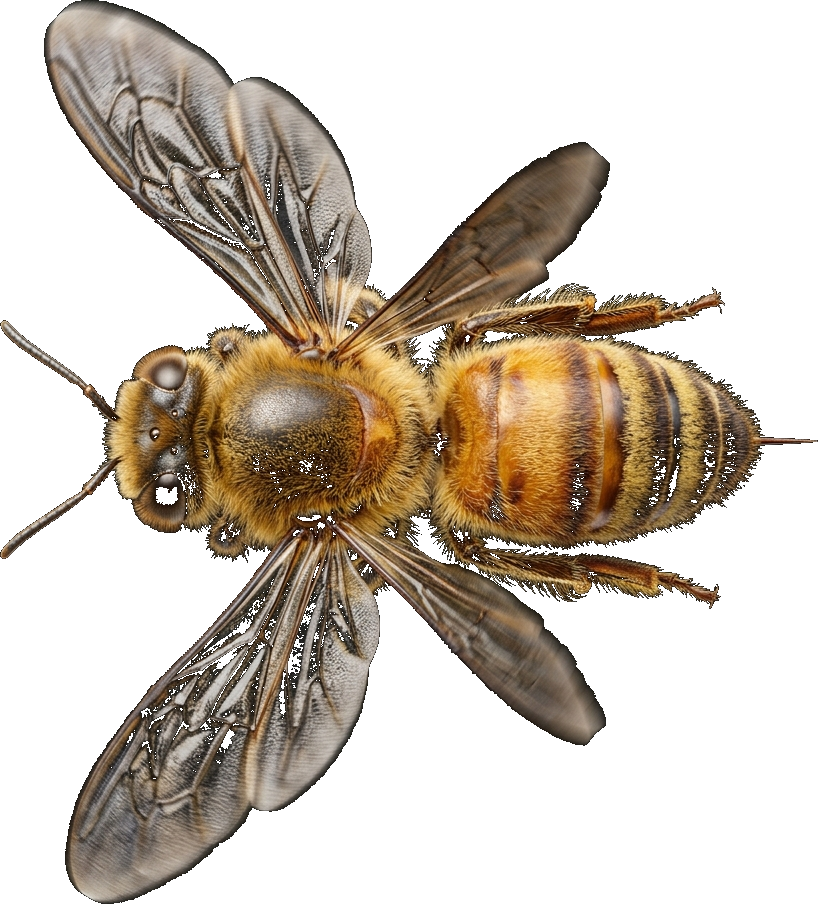
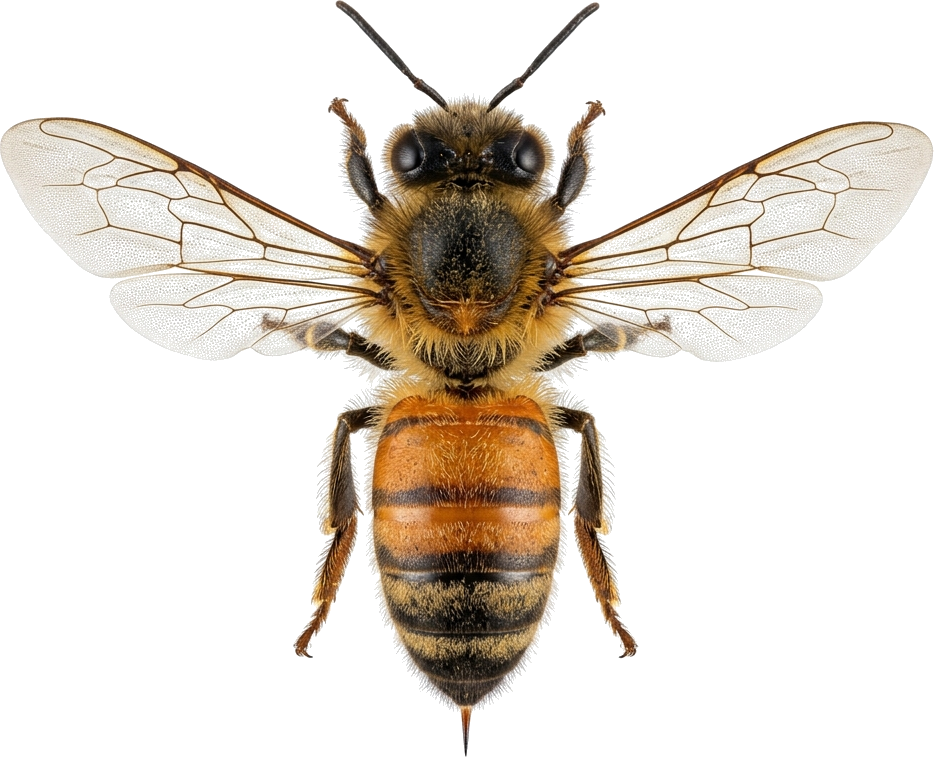
Update cursor to hyper-realistic macro photography bee

diff --git a/assets/theme.css b/assets/theme.css
@@ -2170,15 +2170,15 @@ h1, h2, h3, h4, h5, h6 {
 /* --- Custom Bee Cursor --- */
 .bee-cursor {
   position: fixed;
-  top: -14px;
-  left: -14px;
-  width: 28px;
-  height: 28px;
+  top: -22px;
+  left: -22px;
+  width: 44px;
+  height: 44px;
   pointer-events: none;
   z-index: 999999;
   display: none;
-  filter: drop-shadow(0 4px 6px rgba(0,0,0,0.3));
-  transition: width 0.2s ease, height 0.2s ease;
+  filter: drop-shadow(0 6px 12px rgba(0,0,0,0.4));
+  transition: width 0.2s ease, height 0.2s ease, top 0.2s ease, left 0.2s ease;
   will-change: transform;
 }
 .custom-cursor-enabled .bee-cursor {
@@ -2189,10 +2189,10 @@ h1, h2, h3, h4, h5, h6 {
   cursor: none !important;
 }
 .bee-cursor--hover {
-  width: 36px;
-  height: 36px;
-  top: -18px;
-  left: -18px;
+  width: 56px;
+  height: 56px;
+  top: -28px;
+  left: -28px;
 }
   .product-page__gallery { flex-direction: column-reverse; }
   .product-gallery__thumbnails { flex-direction: row; width: 100%; overflow-x: auto; }

diff --git a/remove_bg.py b/remove_bg.py
@@ -1,7 +1,7 @@
 from PIL import Image
 import sys
 
-img_path = r'C:\Users\rkrai\.gemini\antigravity\brain\9e9ac4bc-46e7-4feb-b732-591a5c0ba456\3d_honey_bee_1782556252547.png'
+img_path = r'C:\Users\rkrai\.gemini\antigravity\brain\9e9ac4bc-46e7-4feb-b732-591a5c0ba456\realistic_bee_v2_1782556574531.png'
 out_path = r'e:\Himachal Valley\assets\bee_cursor_3d.png'
 
 try:
@@ -9,10 +9,10 @@ try:
     datas = img.getdata()
     
     newData = []
-    # threshold for black
+    # threshold for white
     for item in datas:
-        # if r, g, b are all less than a threshold, make it transparent
-        if item[0] < 30 and item[1] < 30 and item[2] < 30:
+        # if r, g, b are all high, make it transparent
+        if item[0] > 235 and item[1] > 235 and item[2] > 235:
             newData.append((255, 255, 255, 0))
         else:
             newData.append(item)